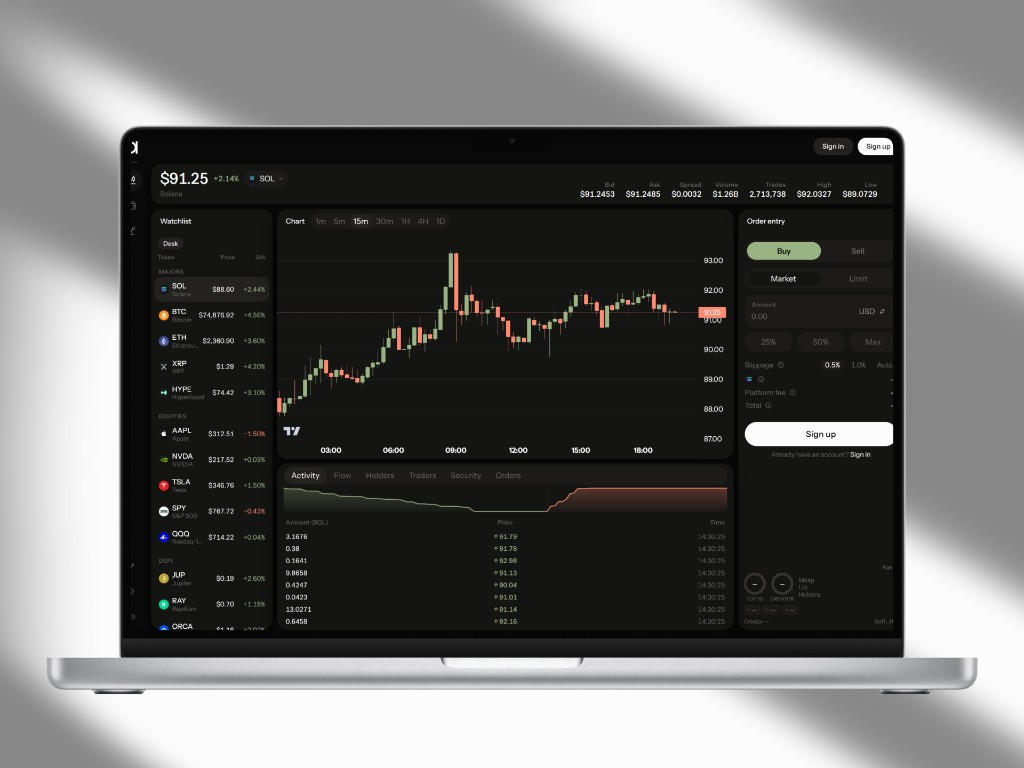
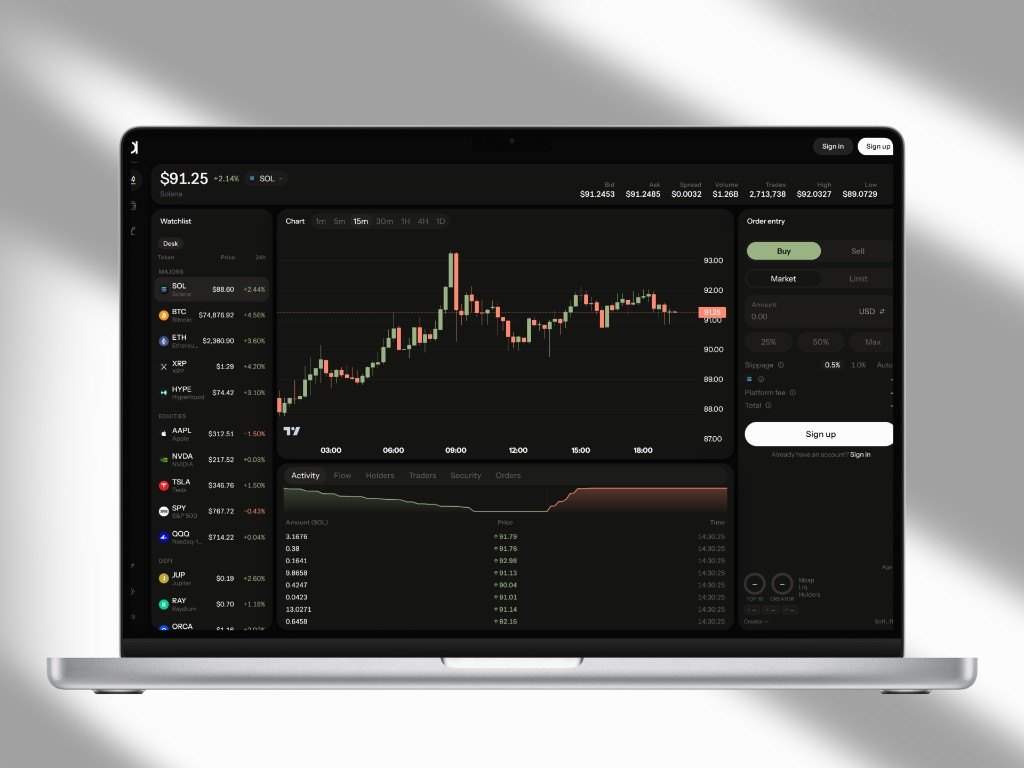
Tighten the landing layout: split platform, oversized quote, and a full-width footer mark.

diff --git a/index.html b/index.html
@@ -190,23 +190,23 @@
       </section>
 
       <section class="platform" id="platform">
-        <div class="wrap">
+        <div class="wrap platform__layout">
           <div class="platform__copy">
             <h2 class="heading">Made to outperform</h2>
             <p class="lede">
               A free, fully customizable trading platform. Credit first. Pool second. Everything you need to fill closer to mid.
             </p>
           </div>
-        </div>
 
-        <figure class="platform__shot wrap wrap--wide">
-          <img
-            src="./images/platform-laptop.png"
-            alt="Acend trading desk on a laptop, with watchlist, SOL chart, activity, and order ticket"
-            width="1024"
-            height="768"
-          />
-        </figure>
+          <figure class="platform__shot">
+            <img
+              src="./images/platform-laptop.png"
+              alt="Acend trading desk on a laptop, with watchlist, SOL chart, activity, and order ticket"
+              width="1024"
+              height="768"
+            />
+          </figure>
+        </div>
       </section>
 
       <section class="ambition">
@@ -269,7 +269,7 @@
         <div class="wrap">
           <figure>
             <blockquote>
-              “Most of every fill lands in lending markets. Pools only close the gap.”
+              Most of every fill lands in lending markets. Pools only close the gap.
             </blockquote>
             <figcaption>How Acend settles</figcaption>
           </figure>
@@ -457,37 +457,9 @@
     </main>
 
     <footer class="footer">
-      <div class="wrap footer__inner">
+      <div class="wrap wrap--wide footer__inner">
         <div class="footer__top">
-          <div>
-            <a class="logo" href="#top" aria-label="Acend home">
-              <svg class="logo-wordmark" viewBox="0 0 176 50" aria-hidden="true">
-                <g fill="currentColor" fill-rule="nonzero">
-                  <g transform="translate(2 14)">
-                    <path d="M34 17a17 17 0 1 1-34 0 17 17 0 1 1 34 0zM28.5 17a11.5 11.5 0 1 0-23 0 11.5 11.5 0 1 0 23 0zM30.5 0h5.5v34h-5.5z" />
-                  </g>
-                  <g transform="translate(39 14)">
-                    <path d="M32 9A17 17 0 0 0 17 0A17 17 0 0 0 0 17A17 17 0 0 0 17 34A17 17 0 0 0 32 25L25.26 25A11.5 11.5 0 0 1 17 28.5A11.5 11.5 0 0 1 5.5 17A11.5 11.5 0 0 1 17 5.5A11.5 11.5 0 0 1 25.26 9L32 9Z" />
-                  </g>
-                  <g transform="translate(70 14)">
-                    <clipPath id="e-clip-f">
-                      <circle cx="17" cy="17" r="17" />
-                    </clipPath>
-                    <g clip-path="url(#e-clip-f)">
-                      <path d="M34 17a17 17 0 1 1-34 0 17 17 0 1 1 34 0zM28.5 17a11.5 11.5 0 1 0-23 0 11.5 11.5 0 1 0 23 0zM0 14.25h34v5.5H0zM33.73 20L28.1 20A11.5 11.5 0 0 1 25.26 25L32 25A17 17 0 0 0 33.73 20z" />
-                    </g>
-                  </g>
-                  <g transform="translate(105 14)">
-                    <path d="M0 34V16A16 16 0 0 1 32 16V34H26V16A10 10 0 0 0 6 16V34H0Z" />
-                  </g>
-                  <g transform="translate(138 14)">
-                    <path d="M34 17a17 17 0 1 1-34 0 17 17 0 1 1 34 0zM28.5 17a11.5 11.5 0 1 0-23 0 11.5 11.5 0 1 0 23 0zM30.5-13h5.5v47h-5.5z" />
-                  </g>
-                </g>
-              </svg>
-            </a>
-            <p class="footer__tag">Credit-settled exchange. Closer to mid.</p>
-          </div>
+          <p class="footer__tag">Credit-settled exchange. Closer to mid.</p>
           <nav aria-label="Footer">
             <a href="#platform">Platform</a>
             <a href="#products">Trade</a>
@@ -502,6 +474,32 @@
           </p>
           <p>© 2026 Acend</p>
         </div>
+        <a class="footer__mark" href="#top" aria-label="Acend home">
+          <svg class="logo-wordmark" viewBox="0 0 176 50" aria-hidden="true">
+            <g fill="currentColor" fill-rule="nonzero">
+              <g transform="translate(2 14)">
+                <path d="M34 17a17 17 0 1 1-34 0 17 17 0 1 1 34 0zM28.5 17a11.5 11.5 0 1 0-23 0 11.5 11.5 0 1 0 23 0zM30.5 0h5.5v34h-5.5z" />
+              </g>
+              <g transform="translate(39 14)">
+                <path d="M32 9A17 17 0 0 0 17 0A17 17 0 0 0 0 17A17 17 0 0 0 17 34A17 17 0 0 0 32 25L25.26 25A11.5 11.5 0 0 1 17 28.5A11.5 11.5 0 0 1 5.5 17A11.5 11.5 0 0 1 17 5.5A11.5 11.5 0 0 1 25.26 9L32 9Z" />
+              </g>
+              <g transform="translate(70 14)">
+                <clipPath id="e-clip-f">
+                  <circle cx="17" cy="17" r="17" />
+                </clipPath>
+                <g clip-path="url(#e-clip-f)">
+                  <path d="M34 17a17 17 0 1 1-34 0 17 17 0 1 1 34 0zM28.5 17a11.5 11.5 0 1 0-23 0 11.5 11.5 0 1 0 23 0zM0 14.25h34v5.5H0zM33.73 20L28.1 20A11.5 11.5 0 0 1 25.26 25L32 25A17 17 0 0 0 33.73 20z" />
+                </g>
+              </g>
+              <g transform="translate(105 14)">
+                <path d="M0 34V16A16 16 0 0 1 32 16V34H26V16A10 10 0 0 0 6 16V34H0Z" />
+              </g>
+              <g transform="translate(138 14)">
+                <path d="M34 17a17 17 0 1 1-34 0 17 17 0 1 1 34 0zM28.5 17a11.5 11.5 0 1 0-23 0 11.5 11.5 0 1 0 23 0zM30.5-13h5.5v47h-5.5z" />
+              </g>
+            </g>
+          </svg>
+        </a>
       </div>
     </footer>
 

diff --git a/styles.css b/styles.css
@@ -315,7 +315,6 @@ p {
 }
 
 .header.is-scrolled {
-  border-bottom-color: var(--line);
   background: rgb(250 248 245 / 0.84);
   backdrop-filter: blur(16px);
   -webkit-backdrop-filter: blur(16px);
@@ -364,7 +363,6 @@ p {
 body.nav-open .header {
   background: var(--bg);
   color: var(--ink);
-  border-bottom-color: var(--line);
   backdrop-filter: none;
   -webkit-backdrop-filter: none;
 }
@@ -878,7 +876,9 @@ html.nav-open {
 }
 
 .platform__shot {
-  margin: 48px auto 0;
+  margin: 48px 0 0;
+  overflow: hidden;
+  border-radius: 12px;
 }
 
 .platform__shot img {
@@ -887,9 +887,29 @@ html.nav-open {
   height: auto;
 }
 
-@media (min-width: 768px) {
+@media (min-width: 1024px) {
+  .platform {
+    padding: var(--module) 0;
+  }
+
+  .platform__layout {
+    display: grid;
+    grid-template-columns: max-content minmax(0, 1fr);
+    gap: 56px;
+    align-items: center;
+  }
+
+  .platform__copy {
+    max-width: none;
+  }
+
+  .platform__copy .heading {
+    white-space: nowrap;
+  }
+
   .platform__shot {
-    margin-top: 64px;
+    margin: 0;
+    border-radius: 14px;
   }
 }
 
@@ -1018,25 +1038,31 @@ html.nav-open {
 /* —— Quote —— */
 
 .quote {
-  padding: 8px 0 var(--module);
+  padding: var(--module) 0;
+  text-align: center;
+}
+
+.quote figure {
+  margin: 0 auto;
 }
 
 .quote blockquote {
-  margin: 0;
-  max-width: 22ch;
+  margin: 0 auto;
+  max-width: 18ch;
   font-family: var(--font-display);
-  font-size: clamp(1.75rem, 1rem + 2.4vw, 2.5rem);
-  font-style: italic;
+  font-size: clamp(2.35rem, 1.1rem + 4.6vw, 4.75rem);
+  font-style: normal;
   font-weight: 400;
-  letter-spacing: -0.03em;
-  line-height: 1.15;
+  letter-spacing: -0.035em;
+  line-height: 1.06;
   font-optical-sizing: auto;
 }
 
 .quote figcaption {
-  margin-top: 24px;
-  font-size: 0.875rem;
-  color: var(--muted);
+  margin-top: 28px;
+  font-size: 0.75rem;
+  line-height: 1.4;
+  color: var(--ink);
 }
 
 /* —— Compare —— */
@@ -1245,7 +1271,7 @@ tbody tr:last-child td {
 }
 
 .footer__inner {
-  padding: 56px 0 48px;
+  padding: 56px 0 24px;
   border-top: 1px solid rgb(250 248 245 / 0.1);
 }
 
@@ -1255,13 +1281,20 @@ tbody tr:last-child td {
   gap: 48px;
 }
 
-.footer .logo {
+.footer__mark {
+  display: block;
+  margin-top: 40px;
   color: var(--bg);
-  font-size: 1.5rem;
+}
+
+.footer__mark .logo-wordmark {
+  display: block;
+  width: 100%;
+  height: auto;
 }
 
 .footer__tag {
-  margin-top: 16px;
+  margin: 0;
   max-width: 26ch;
   font-size: 0.875rem;
   line-height: 1.6;
@@ -1288,7 +1321,7 @@ tbody tr:last-child td {
   display: flex;
   flex-direction: column;
   gap: 12px;
-  margin-top: 56px;
+  margin-top: 48px;
   padding-top: 32px;
   border-top: 1px solid rgb(250 248 245 / 0.1);
   font-size: 0.75rem;
@@ -1301,6 +1334,10 @@ tbody tr:last-child td {
     flex-direction: row;
     align-items: flex-start;
     justify-content: space-between;
+  }
+
+  .footer__mark {
+    margin-top: 48px;
   }
 
   .footer__bottom {
